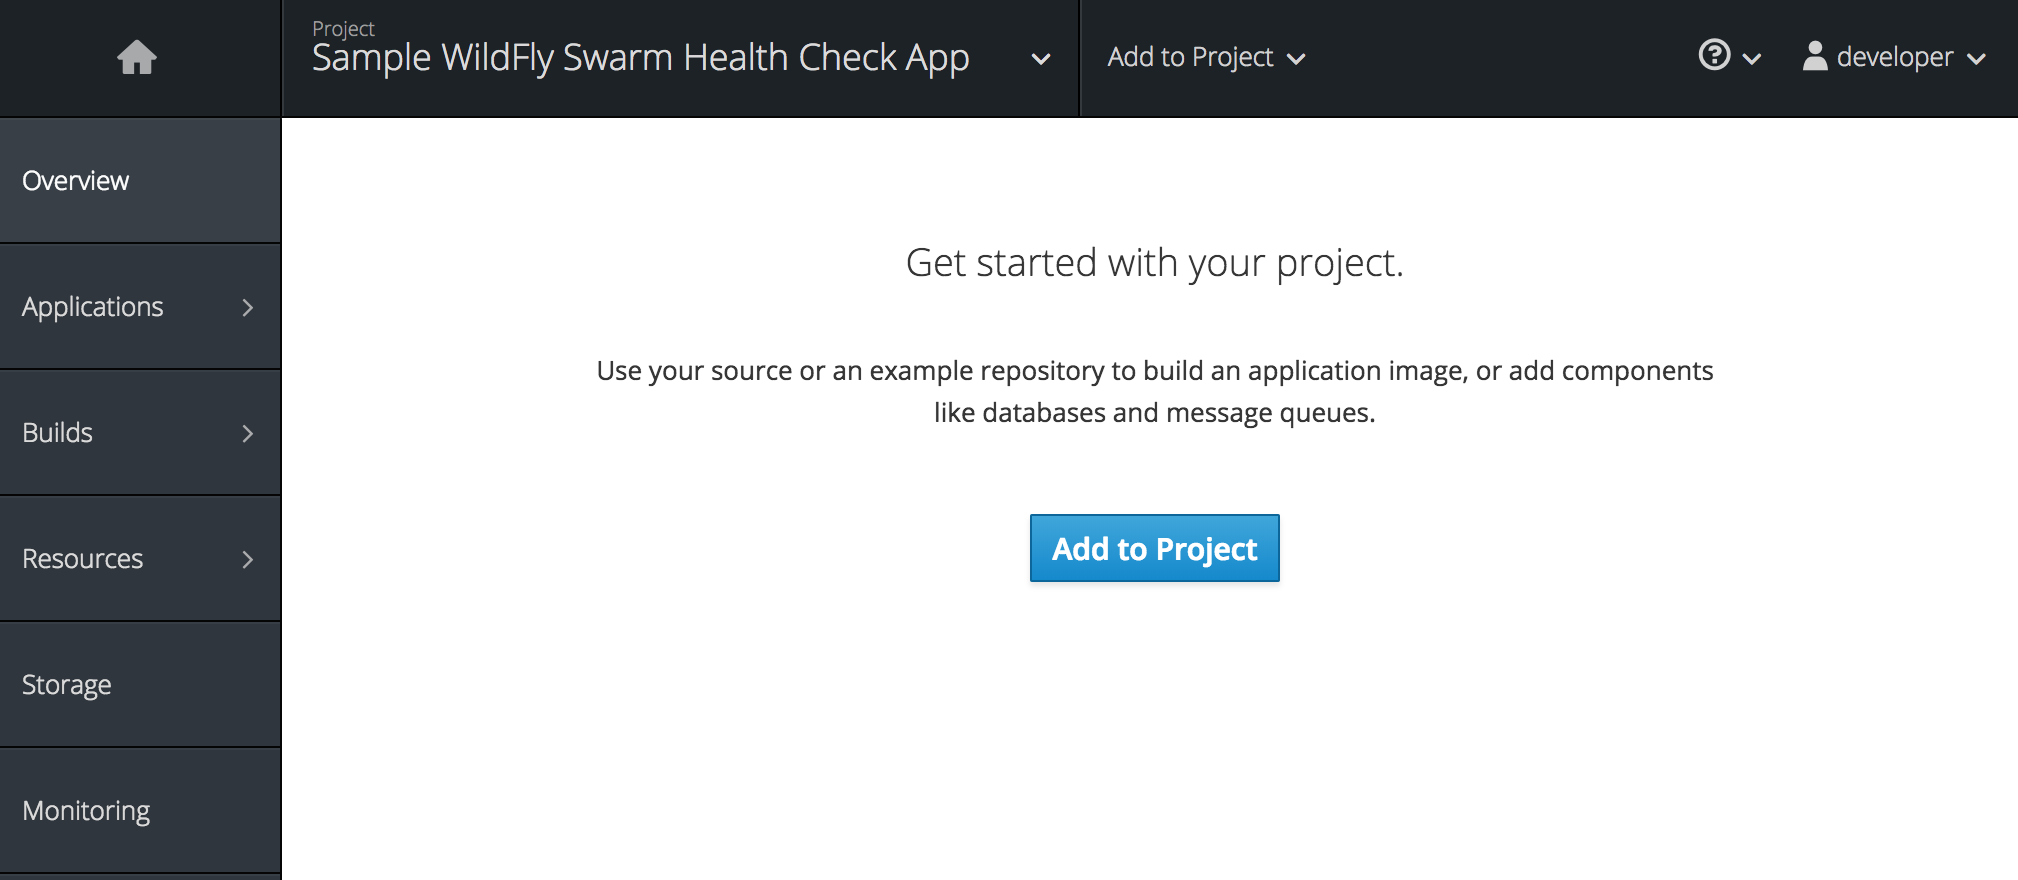
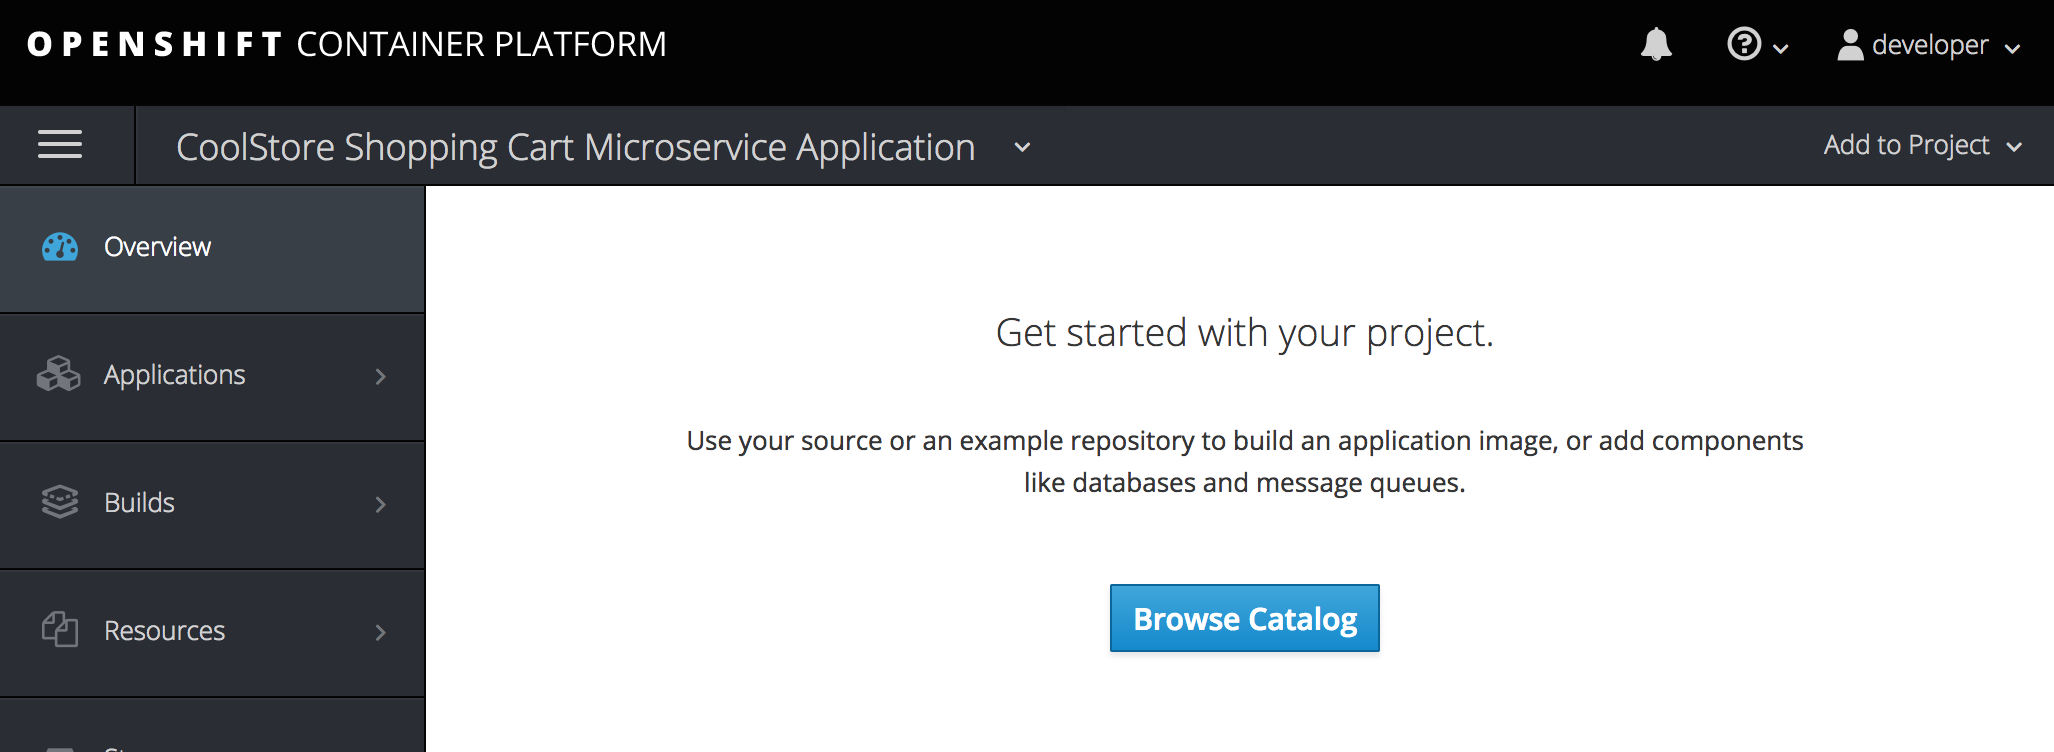
bugssssss and screenshot update

diff --git a/scenarios/reactive-microservices/09-strangling-the-monolith.md b/scenarios/reactive-microservices/09-strangling-the-monolith.md
@@ -41,7 +41,7 @@ Leave other values set to their defaults, and click **Save**
 
 **4. Test the route**
 
-Test the route by running `curl http://monolith-coolstore-dev.[[HOST_SUBDOMAIN]]-80-[[KATACODA_HOST]].environments.katacoda.com/services/cart/99999`{{execute}}
+Test the route by running `curl http://www-coolstore-dev.[[HOST_SUBDOMAIN]]-80-[[KATACODA_HOST]].environments.katacoda.com/services/cart/99999`{{execute}}
 
 You should get a complete set of products, along with their inventory.
 

diff --git a/scenarios/reactive-microservices/07-create-project.md b/scenarios/reactive-microservices/07-create-project.md
@@ -23,7 +23,6 @@ Click on the "OpenShift Console" tab:
 
 And navigate to the new _catalog_ project overview page (or use [this quick link](https://[[HOST_SUBDOMAIN]]-8443-[[KATACODA_HOST]].environments.katacoda.com/console/project/cart/)
 
-TODO: Change below screen shot
 ![Web Console Overview](/redhat-middleware-workshops/assets/mono-to-micro-part-2/overview.png)
 
 There's nothing there now, but that's about to change.
